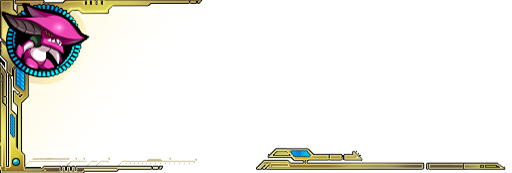
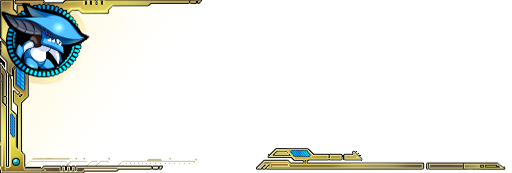
프레임 스킨 업데이트

diff --git a/index.html b/index.html
@@ -251,6 +251,9 @@ input {
     <option> </option>
   </select>
     </p>
+    <br>
+    <h3>Frame Skin</h3>
+    <select name="frameSkin" id="frameSkin" onchange="select_frame(this.options[this.selectedIndex].value);"></select>
  </form> 
 <br>
 <br>
@@ -1049,18 +1052,118 @@ function categoryChange(e) {
         opt.innerHTML = selected_class[index];
         target.appendChild(opt);
     }
+}
 
+var frame_Options = [
+{ "frame_Text" : "프레임을 선택하세요", "frame_Value" : "" },
+{ "frame_Text" : "샤이닝 스타", "frame_Value" : "U1" },
+{ "frame_Text" : "응축된 암흑의 광휘", "frame_Value" : "R1" },
+{ "frame_Text" : "사이버네틱", "frame_Value" : "R2" },
+{ "frame_Text" : "지고의 날개", "frame_Value" : "R3" },
+{ "frame_Text" : "칠흑의 날개", "frame_Value" : "R4" },
+{ "frame_Text" : "드래고니안", "frame_Value" : "R5" },
+{ "frame_Text" : "종합 전투력 주간 1위", "frame_Value" : "TCP_1" },
+{ "frame_Text" : "종합 전투력 주간 2위", "frame_Value" : "TCP_2" },
+{ "frame_Text" : "종합 전투력 주간 5위", "frame_Value" : "TCP_3" },
+{ "frame_Text" : "종합 전투력 주간 10위", "frame_Value" : "TCP_4" },
+{ "frame_Text" : "유니온 아레나 주간 1등", "frame_Value" : "UA_1" },
+{ "frame_Text" : "유니온 아레나 주간 2등", "frame_Value" : "UA_2" },
+{ "frame_Text" : "유니온 아레나 주간 3등", "frame_Value" : "UA_3" },
+{ "frame_Text" : "유니온 아레나 주간 30등", "frame_Value" : "UA_4" },
+{ "frame_Text" : "유니온 아레나 주간 100등", "frame_Value" : "UA_5" },
+{ "frame_Text" : "오염 정화자 - 요드", "frame_Value" : "PURIFICATION_1" },
+{ "frame_Text" : "오염 정화자 - 하르파스", "frame_Value" : "PURIFICATION_2" },
+{ "frame_Text" : "오염 정화자 - 틴달로스", "frame_Value" : "PURIFICATION_3" },
+{ "frame_Text" : "인류의 수호자", "frame_Value" : "PURIFICATION_4" },
+{ "frame_Text" : "태스크포스 : 베테라누스", "frame_Value" : "TF_1" },
+{ "frame_Text" : "태스크포스 : 소드&걸스", "frame_Value" : "TF_2" },
+{ "frame_Text" : "태스크포스 : T.리벨리온", "frame_Value" : "TF_3" },
+{ "frame_Text" : "태스크포스 : 좋은 친구들", "frame_Value" : "TF_4" },
+{ "frame_Text" : "태스크포스 : 퀸 오브 하트", "frame_Value" : "TF_5" },
+{ "frame_Text" : "곰돌이랜드", "frame_Value" : "GREMORY" },
+{ "frame_Text" : "몽환세계의 쌍둥이", "frame_Value" : "DREAM_1" },
+{ "frame_Text" : "몽환세계의 주인", "frame_Value" : "DREAM_2" },
+{ "frame_Text" : "승리의 미용사들", "frame_Value" : "DOGRA_1" },
+{ "frame_Text" : "승리의 재단사들", "frame_Value" : "MAGRA_1" },
+{ "frame_Text" : "디바인배틀 : 언니최고", "frame_Value" : "DOGRA_2" },
+{ "frame_Text" : "디바인배틀 : 동생좋아", "frame_Value" : "MAGRA_2" },
+{ "frame_Text" : "디바인배틀 : 공룡최고", "frame_Value" : "DOGRA_3" },
+{ "frame_Text" : "디바인배틀 : 로봇좋아", "frame_Value" : "MAGRA_3" },
+{ "frame_Text" : "디바인배틀 : 메이드의 주인", "frame_Value" : "DOGRA_4" },
+{ "frame_Text" : "디바인배틀 : 부탁해요 선생님", "frame_Value" : "MAGRA_4" },
+{ "frame_Text" : "디바인배틀 : 트윈테일즈", "frame_Value" : "DOGRA_5" },
+{ "frame_Text" : "디바인배틀 : 포니테일즈", "frame_Value" : "MAGRA_5" },
+{ "frame_Text" : "디바인배틀 : 이과 할래", "frame_Value" : "DOGRA_6" },
+{ "frame_Text" : "디바인배틀 : 문과 하자", "frame_Value" : "MAGRA_6" },
+{ "frame_Text" : "디바인배틀 : SF 탐사대", "frame_Value" : "DOGRA_7" },
+{ "frame_Text" : "디바인배틀 : 판타지 모험가", "frame_Value" : "MAGRA_7" },
+{ "frame_Text" : "디바인배틀 : 고고한 사람", "frame_Value" : "DOGRA_8" },
+{ "frame_Text" : "디바인배틀 : 파티의 히어로", "frame_Value" : "MAGRA_8" },
+{ "frame_Text" : "디바인배틀 : 바다의 화신", "frame_Value" : "DOGRA_9" },
+{ "frame_Text" : "디바인배틀 : 해변의 주인공", "frame_Value" : "MAGRA_9" },
+{ "frame_Text" : "디바인배틀 : 어둠의 자식", "frame_Value" : "DOGRA_10" },
+{ "frame_Text" : "디바인배틀 : 빛의 아이", "frame_Value" : "MAGRA_10" },
+{ "frame_Text" : "팀 챌린지 비주얼 프레임 [스페셜]", "frame_Value" : "CHALLENGE_1" },
+{ "frame_Text" : "팀 챌린지 비주얼 프레임 [금]", "frame_Value" : "CHALLENGE_2" },
+{ "frame_Text" : "팀 챌린지 비주얼 프레임 [은]", "frame_Value" : "CHALLENGE_3" },
+{ "frame_Text" : "팀 챌린지 비주얼 프레임 [동]", "frame_Value" : "CHALLENGE_4" },
+{ "frame_Text" : "2차 이벤트 라이선스", "frame_Value" : "LICENSE_2" },
+{ "frame_Text" : "3차 이벤트 라이선스", "frame_Value" : "LICENSE_3" },
+{ "frame_Text" : "4차 이벤트 라이선스", "frame_Value" : "LICENSE_4" },
+{ "frame_Text" : "2019 할로윈 이벤트 라이선스", "frame_Value" : "LICENSE_5" },
+{ "frame_Text" : "6차 이벤트 라이선스", "frame_Value" : "LICENSE_6" },
+{ "frame_Text" : "6차 이벤트 라이선스[프리미엄]", "frame_Value" : "LICENSE_PREMIUM_6" },
+{ "frame_Text" : "대단한 서클의 비주얼 프레임", "frame_Value" : "CIRCLE" },
+{ "frame_Text" : "네코제 이벤트 비주얼 프레임", "frame_Value" : "NECOJE" },
+{ "frame_Text" : "신년 이벤트", "frame_Value" : "NEWYEAR" },
+{ "frame_Text" : "만우절 이벤트", "frame_Value" : "APRIL" },
+{ "frame_Text" : "2018 여름 이벤트", "frame_Value" : "2018SUMMER" },
+{ "frame_Text" : "할로윈 이벤트", "frame_Value" : "HALLOWEEN" },
+{ "frame_Text" : "스캐빈 전대 레드", "frame_Value" : "SCAVENGER_1" },
+{ "frame_Text" : "스캐빈 전대 블루", "frame_Value" : "SCAVENGER_2" },
+{ "frame_Text" : "스캐빈 전대 그린", "frame_Value" : "SCAVENGER_3" },
+{ "frame_Text" : "스캐빈 전대 핑크", "frame_Value" : "SCAVENGER_4" },
+{ "frame_Text" : "스캐빈 전대 옐로", "frame_Value" : "SCAVENGER_5" },
+{ "frame_Text" : "클로저시", "frame_Value" : "POEM" },
+{ "frame_Text" : "AQUA", "frame_Value" : "ACH_1" },
+{ "frame_Text" : "IGNIS", "frame_Value" : "ACH_2" },
+{ "frame_Text" : "VENTUS", "frame_Value" : "ACH_3" },
+{ "frame_Text" : "TERRA", "frame_Value" : "ACH_4" },
+{ "frame_Text" : "부산행 이벤트", "frame_Value" : "BUSAN" },
+{ "frame_Text" : "대나무숲 이벤트", "frame_Value" : "BAMBOO" },
+{ "frame_Text" : "국제 연금술 협회원", "frame_Value" : "ALCHEMY_1" },
+{ "frame_Text" : "국제 연금술 협회장", "frame_Value" : "ALCHEMY_2" },
+{ "frame_Text" : "CLOSERS ASSEMBLE", "frame_Value" : "ASSEMBLE" },
+{ "frame_Text" : "CLOSERS ART BOOK", "frame_Value" : "ARTBOOK" }
+]
+
+var frameSkin = document.getElementById('frameSkin');
+
+for(var frame_i = 0, frame_l = frame_Options.length; frame_i < frame_l; frame_i++){
+  var frame_option = frame_Options[frame_i];
+  frameSkin.options.add( new Option(frame_option.frame_Text, frame_option.frame_Value, frame_option.selected) );
 }
 
 var img = new Image();
 var img_BG = new Image();
+var img_Frame = new Image();
 img_BG.src = "image/COMMON/BG.png";
-//var img_Frame = new Image();
 
 function drawImage() {
     ctx.drawImage(img_BG,0,0)
     ctx.drawImage(img,0,0)
-  //ctx.drawImage(img_Frame,0,0)
+    ctx.drawImage(img_Frame,0,0)
+}
+
+function select_frame(frame_Value) {
+  img_Frame.src = "image/FRAME/" + frame_Value + ".png"
+img_Frame.onload = function() {
+  clearCanvas();
+  ctx.drawImage(img_BG, 0, 0);
+  ctx.drawImage(img, 0, 0);
+  ctx.drawImage(img_Frame,0,0);
+  drawText();
+}
 }
 
 function select_costume(character_class){
@@ -1070,13 +1173,15 @@ function select_costume(character_class){
         clearCanvas();
         ctx.drawImage(img_BG, 0, 0);
         ctx.drawImage(img, 0, 0);
+        ctx.drawImage(img_Frame,0,0);
         drawText();
     }
     img_BG.onload = function() {
-        clearCanvas();
-        ctx.drawImage(img_BG, 0, 0);
-        ctx.drawImage(img, 0, 0);
-        drawText();
+      clearCanvas();
+      ctx.drawImage(img_BG, 0, 0);
+      ctx.drawImage(img, 0, 0);
+      ctx.drawImage(img_Frame,0,0);
+      drawText();
     }
 }
     function drawText() {    
